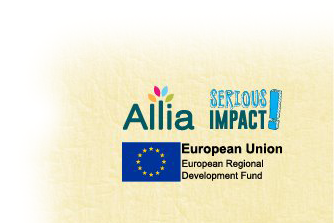
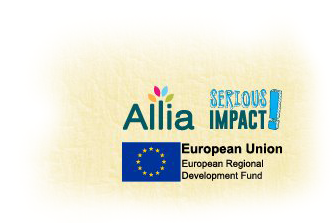
Fix sponsors in header and remove warnings

Changed region(s): [[0.1497, 0.1883, 1.0, 1.0]]

diff --git a/assets/js/custom.js b/assets/js/custom.js
@@ -1,61 +1,1 @@
 
-/*=============================================================
-    Authour URI: www.binarytheme.com
-    License: Commons Attribution 3.0
-
-    http://creativecommons.org/licenses/by/3.0/
-
-    100% Free To use For Personal And Commercial Use.
-    IN EXCHANGE JUST GIVE US CREDITS AND TELL YOUR FRIENDS ABOUT US
-   
-    ========================================================  */
-
-(function ($) {
-    "use strict";
-    var mainApp = {
-        scroll_fun: function () {
-
-            /*====================================
-             SCROLL SCRIPTS 
-            ======================================*/
-            $(function () {
-                $('.move-me a').bind('click', function (event) { //just pass move-me in design and start scrolling
-                    var $anchor = $(this);
-                    $('html, body').stop().animate({
-                        scrollTop: $($anchor.attr('href')).offset().top
-                    }, 1000, 'easeInOutQuad');
-                    event.preventDefault();
-                });
-            });
-
-            
-
-        },
-        
-        nice_scroll_fun:function()
-        {
-            $("html").niceScroll();
-        },
-        custom_fun:function()
-        {
-            /*====================================
-             WRITE YOUR   SCRIPTS  BELOW
-            ======================================*/
-
-
-
-
-        },
-
-    }
-   
-   
-    $(document).ready(function () {
-        mainApp.scroll_fun();
-        mainApp.nice_scroll_fun();
-        mainApp.custom_fun();
-
-    });
-}(jQuery));
-
-

diff --git a/index.html b/index.html
@@ -14,7 +14,6 @@
         <link href="assets/css/bootstrap.css" rel="stylesheet"/>
         <!-- Font-Awesome Icons Styles -->
         <link href="assets/css/font-awesome.css" rel="stylesheet"/>
-        <link href="assets/css/prettyPhoto.css" rel="stylesheet"/>
         <link href="assets/css/custom.css" rel="stylesheet"/>    
         <link href='http://fonts.googleapis.com/css?family=Open+Sans' rel='stylesheet' type='text/css' />
         <link href="https://fonts.googleapis.com/css?family=Montserrat" rel="stylesheet">
@@ -50,7 +49,7 @@
       <header>
         <div class="center">
           <img src="assets/img/charitech_transparent.png" class="header-image">
-          <img src="assets/img/sponsors.png">
+          <img src="assets/img/sponsors.png" class="header-image-small">
         </div>
       </header>
 
@@ -267,13 +266,8 @@
     <script src="assets/js/jquery-1.11.1.js"></script>
     <!-- BOOTSTRAP SCRIPTS  -->
     <script src="assets/js/bootstrap.js"></script>
-    <!-- VEDIO SCRIPT SCRIPTS  -->
-    <script src="assets/js/jquery.mb.YTPlayer.js"></script>
-    <!-- PRETTY PHOTO SCRIPTS  -->
-    <script src="assets/js/jquery.prettyPhoto.js"></script>
     <!-- PORTFOLIO FILTER SCRIPTS  -->
     <script src="assets/js/jquery.mixitup.min.js"></script>
-
     <!-- CUSTOM SCRIPTS  -->
     <script src="assets/js/custom.js"></script>
 

diff --git a/assets/css/custom.css b/assets/css/custom.css
@@ -120,6 +120,10 @@ header {
   height: 20em;
 }
 
+.header-image-small {
+  height: 8em;
+}
+
 #nav-wrapper {
   left: 0;
   width: 100%;

diff --git a/assets/css/bootstrap.css b/assets/css/bootstrap.css
@@ -6200,4 +6200,3 @@ button.close {
     display: none !important;
   }
 }
-/*# sourceMappingURL=bootstrap.css.map */
